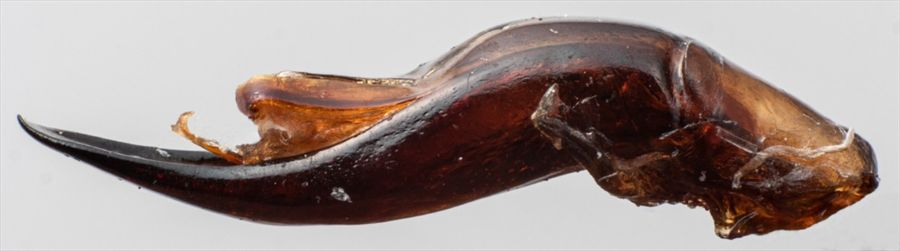
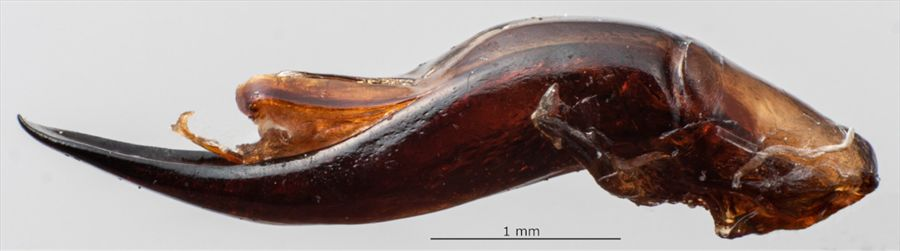
updated Ta124 fact sheet

diff --git a/key/trachymela/Media/Html/Ta124.htm b/key/trachymela/Media/Html/Ta124.htm
@@ -31,7 +31,7 @@
           </td>
         </tr>
         <tr>
-          <td valign="top" align="left" id="left_menuTextarea"><a href="#top" class="left_menu"><strong>Top</strong></a><br><br><a href="#Name">Name</a><br><a href="#Reference specimen">Reference specimen</a><br><a href="#Adult Description">Adult Description</a><br><a href="#Larvae">Larvae</a><br><a href="#Eggs">Eggs</a><br><a href="#Similar species">Similar species</a><br><a href="#Notes">Notes</a><br></td>
+          <td valign="top" align="left" id="left_menuTextarea"><a href="#top" class="left_menu"><strong>Top</strong></a><br><br><a href="#Name">Name</a><br><a href="#Reference specimen">Reference specimen</a><br><a href="#Adult Description">Adult Description</a><br><a href="#Immature Stages">Immature Stages</a><br><a href="#Similar species">Similar species</a><br><a href="#Notes">Notes</a><br></td>
         </tr>
         <tr>
           <td height="16" align="left" style="height:16px; width:100%; background-color: #8b6b43;" valign="bottom">
@@ -46,20 +46,47 @@
       <div class="bannertitle" id="title">Ta124</div><a name="Name"></a><h1 class="" style="">Name</h1>
 <P><STRONG><FONT size=4><EM>Trachymela </EM>sp. Ta124</FONT></STRONG></P>
 <a name="Reference specimen"></a><h1 class="" style="">Reference specimen</h1>
-<P><FONT size=4>2011-010, Lincoln National Park, South Australia</FONT></P>
+<P><FONT size=3>2011-010, Lincoln National Park, South Australia.</FONT></P>
 <a name="Adult Description"></a><h1 class="" style="">Adult Description</h1>
-<P><FONT size=4><B><U>Length:</U></B> ♀ 9.1-9.8 [2], ♂ 9.3-9.5 mm [2].</FONT></P>
-<P><FONT size=4><B><U>Colour:</U></B>&nbsp; <U>head</U>: rear of head dark -brown, clypeus even darker, almost black, with this dark shade extending towards rear of frons, labrum straw-brown, mandibles dark-brown with black base and tips; antennomeres 1-3 straw-brown, 4-11 very slightly darker in shade, individual antennomeres with anterior edge darker; <U>pronotum</U>: dark brown, similar shade or fractionally darker than rear of head with anterior margin behind head fractionally darker, posterior half of lateral edge black; <U><A title="<p>The scutellum is a&nbsp;triangular piece that is part of the dorsal surface of the mesothorax situated between the bases of the elytra and the pronotum.</p>" class="fsf_tooltip" href="glossary.htm#Morphology_scutellum">scutellum</A></U>: black; <U><A title="<p>The anterior, chitinous wings that serve as the coverings&nbsp;for the hind wings.&nbsp; At rest, these meet in a straight line down the middle termed the elytral suture.</p>" class="fsf_tooltip" href="glossary.htm#Morphology_elytra">elytra</A></U>: dark brown, similar shade as disc of pronotum, punctures similar in shade to <A title="<p>The space between punctures.</p>" class="fsf_tooltip" href="glossary.htm#Morphology_interstices">interstices</A>, elytral suture with a thin black border, <A title="<p>The humeral callus (pl: humeral calli) is a&nbsp;more or less rounded tuberculate elevation of the elytral surface situated just above and behind the humerus.</p>" class="fsf_tooltip" href="glossary.htm#Morphology_humeral callus">humeral callus</A> black; <U>venter</U>: dark-brown, with areas around the midline of thoracic segments often even darker, legs similar, inside surface of elytral <A title="<p>Epipleura (singular: epipleuron) are the deflexed or inflexed portions of the elytra, immediately beneath the edge (de la Torre-Bueno, J.R, 1985).&nbsp; In <EM>Trachymela</EM>, the sides of the elytra are extended vertically, concealing the epipleura which face inwards.&nbsp; In <EM>Trachymela</EM>, the inner surface of the epipleura may be brown, black or partially black.</p>" class="fsf_tooltip" href="glossary.htm#Morphology_epipleura">epipleura</A> brown or black.&nbsp; <B><U>Cuticular wax:</U></B> A rather evenly distributed and moderate to thin layer of brown.</FONT></P>
-<P><FONT size=4><B><U>Shape</U></B><B><U>:</U></B> quite evenly rounded and almost hemispherical (H/BL ♂=0.51, ♀=?), highest point in front of middle of elytral margin.&nbsp; <B><U>Head</U>;</B> punctures relatively fine (pd~1.5-2.xef) and quite evenly and densely packed. &nbsp;Antennae moderately long (AL ♂=39.2%BL, ♀=?%BL), A4&lt;A3, filiform.&nbsp; <B><U>Pronotum</U></B>; almost evenly curved transversely, foveal depression weak with a very small foveal elevation, puncturation clearly impressed, similar in size to those on head, closely and rather evenly packed together, punctures becoming considerably coarser from inside margin of foveal area towards lateral margin.&nbsp; Front margins join lateral margins in a smoothly rounded right-angle, with lateral margin initially almost straight for about 20% of length, then curving smoothly and gradually towards the much thicker rear margin.&nbsp; <B><U><A title="<p>The scutellum is a&nbsp;triangular piece that is part of the dorsal surface of the mesothorax situated between the bases of the elytra and the pronotum.</p>" class="fsf_tooltip" href="glossary.htm#Morphology_scutellum">Scutellum</A></U></B>; surface slightly uneven, with a number of very shallow puncture-like depressions.&nbsp; <B><U><A title="<p>The anterior, chitinous wings that serve as the coverings&nbsp;for the hind wings.&nbsp; At rest, these meet in a straight line down the middle termed the elytral suture.</p>" class="fsf_tooltip" href="glossary.htm#Morphology_elytra">Elytra</A></U></B>; surface evenly curved, punctures distinct in anterior two-thirds, barely so in posterior third where they become lost in the closely-spaced granular <A title="<p>The space between punctures.</p>" class="fsf_tooltip" href="glossary.htm#Morphology_interstices">interstices</A>, relatively evenly distributed, a scatter of smaller punctures on the interstices, the raised interstices form a network of short, thin ridges throughout that give the surface a granular appearance, 4 longitudinal series of very small and inconspicuous, round <A title="<p>Verrucae (singular: verruca) are small to medium-sized wart-like elevations on the surface of the elytra.&nbsp; They are often darker than the integument, but may be of a similar colour.&nbsp; Frequently, they have a small puncture at their centre.&nbsp; The size,&nbsp;arrangement and colour of the verrucae is an important character in the identification of <EM>Trachymela </EM>species.</p>" class="fsf_tooltip" href="glossary.htm#Morphology_verrucae">verrucae</A> are present on inner half of disc, surface discontinuous under <A title="<p>The humeral callus (pl: humeral calli) is a&nbsp;more or less rounded tuberculate elevation of the elytral surface situated just above and behind the humerus.</p>" class="fsf_tooltip" href="glossary.htm#Morphology_humeral callus">humeral callus</A>.&nbsp; Vertical extension of <A title="<p>Epipleura (singular: epipleuron) are the deflexed or inflexed portions of the elytra, immediately beneath the edge (de la Torre-Bueno, J.R, 1985).&nbsp; In <EM>Trachymela</EM>, the sides of the elytra are extended vertically, concealing the epipleura which face inwards.&nbsp; In <EM>Trachymela</EM>, the inner surface of the epipleura may be brown, black or partially black.</p>" class="fsf_tooltip" href="glossary.htm#Morphology_epipleura">epipleura</A> moderate (H<SUB>CE</SUB>/PW=0.34).&nbsp; <B><U>Venter</U></B>; <A title="<P>&nbsp;</P>" class="fsf_tooltip" href="glossary.htm#Morphology_prosternal process">Prosternal process</A> narrowest anteriorly, closed anteriorly, short setae present sparsely over <A title="<P>&nbsp;</P>" class="fsf_tooltip" href="glossary.htm#Morphology_prosternal process">prosternal process</A> and mesosternum, one long seta on anterior and median <A title="<P>&nbsp;</P>" class="fsf_tooltip" href="glossary.htm#Morphology_trochanter">trochanter</A>, one on posterior <A title="<P>&nbsp;</P>" class="fsf_tooltip" href="glossary.htm#Morphology_trochanter">trochanter</A>; front edge of metasternum beveled, truncate; posterior section of epipleura with a line of fine setae extending from opposite hind coxae to close to apex.&nbsp; <B><U><A title="<p>The male reproductive organ</p>" class="fsf_tooltip" href="glossary.htm#Morphology_aedeagus">Aedeagus</A></U></B>; very long, apical half prominently deflexed &nbsp;(<A title="<P>&nbsp;</P>" class="fsf_tooltip" href="glossary.htm#Morphology_LPE">LPE</A>=47.8%BL); in dorsal view, almost parallel-sided from basal sulcus to nearly 50% of distance to apex with sides smooth, from there the sides converge towards apex very slowly and slightly unevenly until just before tip, where the convergence becomes more rapid to form a triangular <A title="<P>&nbsp;</P>" class="fsf_tooltip" href="glossary.htm#Morphology_spatula">spatula</A>, dorsal surface smoothly curved with a fait but long dorsomedian channel, dorsolateral channels also quite long and at lateral margins, dorsal ostial processes very large, ostial opening very large, tip strongly protruding; in lateral view, curved slightly just anterior to basal sulcus, then almost straight to about 30% from apex where ventral surface is prominently deflexed and its thickness decreases towards apex, tip quite small and very slightly deflexed.</FONT></P>
-<a name="Larvae"></a><h1 class="" style="">Larvae</h1>
-<P><FONT size=4>unknown.</FONT></P>
-<a name="Eggs"></a><h1 class="" style="">Eggs</h1>
-<P><FONT size=4>this species is ovoviparous.</FONT></P>
+<P><FONT size=3><B><U>Length:</U></B> ♂ 9.3–9.5 mm (n=2), ♀ 9.1–9.8 mm (n=2).</FONT></P>
+<P><FONT size=3><B><U>Colouration:</U></B></FONT></P>
+<UL style="PADDING-LEFT: 1.2em; MARGIN-LEFT: 0px">
+<LI><FONT size=3><B>Head:</B> rear of head dark brown, clypeus even darker, almost black, with this dark shade extending towards rear of frons, labrum straw-brown, mandibles dark brown with black base and tips; antennomeres 1–3 straw-brown, 4–11 very slightly darker in shade, individual antennomeres with anterior edge darker.</FONT> 
+<LI><FONT size=3><B>Pronotum:</B> dark brown, concolorous with or fractionally darker than rear of head with anterior margin behind head fractionally darker, posterior half of lateral edge black.</FONT> 
+<LI><FONT size=3><B><A title="<p>The scutellum is a&nbsp;triangular piece that is part of the dorsal surface of the mesothorax situated between the bases of the elytra and the pronotum.</p>" class="fsf_tooltip" href="glossary.htm#Morphology_scutellum">Scutellum</A>:</B> black.</FONT> 
+<LI><FONT size=3><B><A title="<p>The anterior, chitinous wings that serve as the coverings&nbsp;for the hind wings.&nbsp; At rest, these meet in a straight line down the middle termed the elytral suture.</p>" class="fsf_tooltip" href="glossary.htm#Morphology_elytra">Elytra</A>:</B> dark brown, concolorous with disc of pronotum, punctures concolorous with <A title="<p>The space between punctures.</p>" class="fsf_tooltip" href="glossary.htm#Morphology_interstices">interstices</A>, elytral suture with a thin black border, <A title="<p>The humeral callus (pl: humeral calli) is a&nbsp;more or less rounded tuberculate elevation of the elytral surface situated just above and behind the humerus.</p>" class="fsf_tooltip" href="glossary.htm#Morphology_humeral callus">humeral callus</A> black.</FONT> 
+<LI><FONT size=3><B>Venter &amp; Legs:</B> dark brown, with areas around the midline of thoracic segments often even darker, legs concolorous, inside surface of elytral <A title="<p>Epipleura (singular: epipleuron) are the deflexed or inflexed portions of the elytra, immediately beneath the edge (de la Torre-Bueno, J.R, 1985).&nbsp; In <EM>Trachymela</EM>, the sides of the elytra are extended vertically, concealing the epipleura which face inwards.&nbsp; In <EM>Trachymela</EM>, the inner surface of the epipleura may be brown, black or partially black.</p>" class="fsf_tooltip" href="glossary.htm#Morphology_epipleura">epipleura</A> brown or black.</FONT> 
+<LI><FONT size=3><B>Cuticular Wax:</B> a rather evenly distributed and moderate to thin layer of brown.</FONT></LI></UL>
+<P><FONT size=3><B><U>Morphology:</U></B></FONT></P>
+<UL style="PADDING-LEFT: 1.2em; MARGIN-LEFT: 0px">
+<LI><FONT size=3><B>Shape:</B> quite evenly rounded and almost hemispherical (H/BL: ♂ 0.51, ♀ unknown), highest point in front of middle of elytral margin.</FONT> 
+<LI><FONT size=3><B>Head:</B> punctures relatively fine (pd ≈ 1.5–2.0 × ef) and quite evenly and densely distributed. Antennae moderately long (AL/BL: ♂ 39.2%, ♀ unknown), A4 &lt; A3, filiform.</FONT> 
+<LI><FONT size=3><B>Pronotum:</B> almost evenly curved transversely, foveal depression weak with a very small foveal elevation, puncturation clearly impressed, similar in size to those on head, closely and rather evenly distributed, punctures becoming considerably coarser from inside margin of foveal area towards lateral margin. Front margins join lateral margins in a smoothly rounded right-angle, with lateral margin initially almost straight for about 20% of length, then curving smoothly and gradually towards the much thicker rear margin.</FONT> 
+<LI><FONT size=3><B><A title="<p>The scutellum is a&nbsp;triangular piece that is part of the dorsal surface of the mesothorax situated between the bases of the elytra and the pronotum.</p>" class="fsf_tooltip" href="glossary.htm#Morphology_scutellum">Scutellum</A>:</B> surface slightly uneven, with a number of very shallow puncture-like depressions.</FONT> 
+<LI><FONT size=3><B><A title="<p>The anterior, chitinous wings that serve as the coverings&nbsp;for the hind wings.&nbsp; At rest, these meet in a straight line down the middle termed the elytral suture.</p>" class="fsf_tooltip" href="glossary.htm#Morphology_elytra">Elytra</A>:</B> surface evenly curved, punctures distinct in anterior two-thirds, barely so in posterior third where they become lost in the closely-spaced granular <A title="<p>The space between punctures.</p>" class="fsf_tooltip" href="glossary.htm#Morphology_interstices">interstices</A>, relatively evenly distributed, a scatter of smaller punctures on the interstices, the raised interstices form a network of short, thin ridges throughout that give the surface a granular appearance, 4 longitudinal series of very small and inconspicuous, round <A title="<p>Verrucae (singular: verruca) are small to medium-sized wart-like elevations on the surface of the elytra.&nbsp; They are often darker than the integument, but may be of a similar colour.&nbsp; Frequently, they have a small puncture at their centre.&nbsp; The size,&nbsp;arrangement and colour of the verrucae is an important character in the identification of <EM>Trachymela </EM>species.</p>" class="fsf_tooltip" href="glossary.htm#Morphology_verrucae">verrucae</A> are present on inner half of disc, surface discontinuous under <A title="<p>The humeral callus (pl: humeral calli) is a&nbsp;more or less rounded tuberculate elevation of the elytral surface situated just above and behind the humerus.</p>" class="fsf_tooltip" href="glossary.htm#Morphology_humeral callus">humeral callus</A>. Vertical extension of <A title="<p>Epipleura (singular: epipleuron) are the deflexed or inflexed portions of the elytra, immediately beneath the edge (de la Torre-Bueno, J.R, 1985).&nbsp; In <EM>Trachymela</EM>, the sides of the elytra are extended vertically, concealing the epipleura which face inwards.&nbsp; In <EM>Trachymela</EM>, the inner surface of the epipleura may be brown, black or partially black.</p>" class="fsf_tooltip" href="glossary.htm#Morphology_epipleura">epipleura</A> moderate (HCE/PW = 0.34).</FONT> 
+<LI><FONT size=3><B>Venter:</B> <A title="<P>&nbsp;</P>" class="fsf_tooltip" href="glossary.htm#Morphology_prosternal process">prosternal process</A> narrowest anteriorly, closed anteriorly, short setae present sparsely over <A title="<P>&nbsp;</P>" class="fsf_tooltip" href="glossary.htm#Morphology_prosternal process">prosternal process</A> and mesoventrite, one long seta on anterior and median <A title="<P>&nbsp;</P>" class="fsf_tooltip" href="glossary.htm#Morphology_trochanter">trochanter</A>, one on posterior <A title="<P>&nbsp;</P>" class="fsf_tooltip" href="glossary.htm#Morphology_trochanter">trochanter</A>; front edge of metaventrite beveled, truncate; posterior section of epipleura with a line of fine setae extending from opposite hind coxae to close to apex.</FONT></LI></UL>
+<P><FONT size=3><B><U>Male Genitalia (<A title="<p>The male reproductive organ</p>" class="fsf_tooltip" href="glossary.htm#Morphology_aedeagus">Aedeagus</A>):</U></B></FONT></P>
+<UL style="PADDING-LEFT: 1.2em; MARGIN-LEFT: 0px">
+<LI><FONT size=3><B>Dimensions:</B> very long, apical half prominently deflexed (<A title="<P>&nbsp;</P>" class="fsf_tooltip" href="glossary.htm#Morphology_LPE">LPE</A>/BL = 47.8%).</FONT> 
+<LI><FONT size=3><B>Dorsal view:</B> shaft almost parallel-sided from basal sulcus to nearly 50% of distance to apex with sides smooth, from there the sides converge towards apex very slowly and slightly unevenly until just before tip, where the convergence becomes more rapid to form a triangular <A title="<P>&nbsp;</P>" class="fsf_tooltip" href="glossary.htm#Morphology_spatula">spatula</A>, dorsal surface smoothly curved with a faint but long dorsomedian channel, dorsolateral channels also quite long and at lateral margins, dorsal ostial processes very large, ostial opening very large, tip strongly protruding.</FONT> 
+<LI><FONT size=3><B>Lateral view:</B> shaft curved slightly just anterior to basal sulcus, then almost straight to about 30% from apex where ventral surface is prominently deflexed and its thickness decreases towards apex, tip quite small and very slightly deflexed.</FONT></LI></UL>
+<a name="Immature Stages"></a><h1 class="" style="">Immature Stages</h1>
+<P>
+<UL style="PADDING-LEFT: 1.2em; MARGIN-LEFT: 0px">
+<P><FONT size=3>Unknown.</FONT></P></UL>
+<P></P>
 <a name="Similar species"></a><h1 class="" style="">Similar species</h1>
-<P><FONT size=4><B><A href="Ta91.htm">Ta91</A></B> – the texture of the sculpture of the elytral disc is very similar in these two species.&nbsp; However, <B>Ta124</B> has black inner epipleura and a black clypeus.</FONT></P>
+<P>
+<UL style="PADDING-LEFT: 1.2em; MARGIN-LEFT: 0px">
+<LI><FONT size=3><B><B><A href="Ta91.htm">Ta91</A></B>:</B> The texture of the sculpture of the elytral disc is very similar in these two species. However, <B>Ta124</B> has black inner epipleura and a black clypeus.</FONT></LI></UL>
+<P></P>
 <a name="Notes"></a><h1 class="" style="">Notes</h1>
-<P><FONT size=4><B>Ta124 </B>is a relatively large and almost uniformly dark-brown species that is notable for the very long and prominently deflexed <A title="<p>The male reproductive organ</p>" class="fsf_tooltip" href="glossary.htm#Morphology_aedeagus">aedeagus</A> of the male.&nbsp; The description is based on the single specimen known to the author.&nbsp; It was caught at the same time and off the same host as a female specimen of <B><A href="Ta78.htm">Ta78</A></B>, a closely-related species that is, however, easily distinguishable by its very prominent rows of small black <A title="<p>Verrucae (singular: verruca) are small to medium-sized wart-like elevations on the surface of the elytra.&nbsp; They are often darker than the integument, but may be of a similar colour.&nbsp; Frequently, they have a small puncture at their centre.&nbsp; The size,&nbsp;arrangement and colour of the verrucae is an important character in the identification of <EM>Trachymela </EM>species.</p>" class="fsf_tooltip" href="glossary.htm#Morphology_verrucae">verrucae</A> on the elytral disc (quite different in character to those of <B>Ta124</B>).</FONT></P>
-<P><FONT size=4>This species has been found at just two locations on the Eyre Peninsula: at one, several specimens were found on <I>Eucalyptus gracilis</I> (Symphyomyrtus : Bisectae), while just one specimen was found on <I>Eucalyptus conglobata conglobata</I> (Symphyomyrtus : Dumaria) at the second location.</FONT></P><div class="copyright" xmlns:local="urn:local">
+<P>
+<UL style="PADDING-LEFT: 1.2em; MARGIN-LEFT: 0px">
+<LI><FONT size=3><B>Taxonomy:</B> <B>Ta124</B> is a relatively large and almost uniformly dark brown species, a member of the <EM><A href="alta.htm">alta</A></EM>-group of species,&nbsp;that is notable for the very long and prominently deflexed <A title="<p>The male reproductive organ</p>" class="fsf_tooltip" href="glossary.htm#Morphology_aedeagus">aedeagus</A> of the male.</FONT> 
+<LI><FONT size=3><B>Distribution &amp; Abundance:</B> This species has been found at just two locations on the Eyre Peninsula.</FONT> 
+<LI><FONT size=3><B>Host Associations:</B> At one location, several specimens were found on <I>Eucalyptus gracilis</I> (<I>Symphyomyrtus</I>: <I>Bisectae</I>), while just one specimen was found on <I>Eucalyptus conglobata conglobata</I> (<I>Symphyomyrtus</I>: <I>Dumaria</I>) at the second location.</FONT></LI></UL>
+<P></P><div class="copyright" xmlns:local="urn:local">
         <p>Copyright © 2026. All rights reserved.</p>
         <div id="button-previousnext"></div>
       </div>
